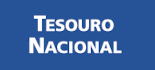
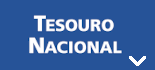
site

Changed region(s): [[0.8258, 0.8, 0.9548, 0.9429]]

diff --git a/projetos/assescon/index.html b/projetos/assescon/index.html
@@ -57,7 +57,13 @@
                     <a href="https://sti.tesouro.gov.br/cauc/index.jsf" title="CAUC" target="_blank"><img src="imagens/cauc.png" alt="CAUC"></a>
                     <a href="https://siconfi.tesouro.gov.br/siconfi/index.jsf" title="SICONFI" target="_blank"><img src="imagens/siconfi.jpeg" alt="SICONFI"></a>
                 </div>
-            </div><br>
+            </div>
+            <div class="dropbtn">
+                <a href="https://www42.bb.com.br/portalbb/daf/beneficiario,802,4647,4652,0,1.bbx" title="DAF BB" target="_blank"><img src="imagens/bb.png" alt="DAF BB"></a>
+                <a href="http://cas.aossoftware.com.br/apps/index.php/login" title="AOS Login" target="_blank"><img src="imagens/aos.png" alt="AOS Login"></a>
+                <a href="http://app.diarioficialdosmunicipios.org:8086/controlepublicacao/" title="DOM Publicação" target="_blank"><img src="imagens/dom.jpeg" alt="DOM Publicação"></a>
+                <a href="https://solucoes.receita.fazenda.gov.br/Servicos/cnpjreva/cnpjreva_solicitacao.asp" title="CNPJ" target="_blank"><img src="imagens/cnpj.png" alt="CNPJ"></a>
+            </div>
             <div class="dropdown">
                 <a class="dropbtn" href="https://www.tse.jus.br/" title="TSE" target="_blank"><img src="imagens/tse.png" alt="TSE"></a>
                 <div class="dropdown-content">
@@ -66,32 +72,57 @@
                 </div>
             </div>
             <div class="dropbtn">
-                <a href="https://www.fnde.gov.br/sigpc/login.seam" title="SIGPC" target="_blank"><img src="imagens/sigpc.jpeg" alt="SIGPC"></a><br>
-                <a href="http://cas.aossoftware.com.br/apps/index.php/login" title="AOS Login" target="_blank"><img src="imagens/aos.png" alt="AOS Login"></a>
-                <a href="http://app.diarioficialdosmunicipios.org:8086/controlepublicacao/" title="DOM Publicação" target="_blank"><img src="imagens/dom.jpeg" alt="DOM Publicação"></a><br>
-                <a href="https://www42.bb.com.br/portalbb/daf/beneficiario,802,4647,4652,0,1.bbx" title="DAF BB" target="_blank"><img src="imagens/bb.png" alt="DAF BB"></a>
-                <a href="https://solucoes.receita.fazenda.gov.br/Servicos/cnpjreva/cnpjreva_solicitacao.asp" title="CNPJ" target="_blank"><img src="imagens/cnpj.png" alt="CNPJ"></a><br>
+                <a href="https://www.fnde.gov.br/sigpc/login.seam" title="SIGPC" target="_blank"><img src="imagens/sigpc.jpeg" alt="SIGPC"></a>
                 <a href="https://www.gov.br/receitafederal/pt-br" title="Receita Federal" target="_blank"><img src="imagens/rf.png" alt="Receita Federal"></a>
-                <a href="https://cav.receita.fazenda.gov.br/autenticacao/login" title="E-cac" target="_blank"><img src="imagens/ecac.jpg" alt="E-cac"></a><br>
+                <a href="https://cav.receita.fazenda.gov.br/autenticacao/login" title="E-cac" target="_blank"><img src="imagens/ecac.jpg" alt="E-cac"></a>
                 <a href="http://www8.receita.fazenda.gov.br/simplesnacional/aplicacoes.aspx?id=21" title="Simples Nacional" target="_blank"><img src="imagens/simples.jpg" alt="Simples Nacional"></a>
-                <a href="https://www.issdigitalthe.com.br/nfsa/" title="NFSe-A" target="_blank"><img src="imagens/nfse-a.jpg" alt="NFSe-A"></a><br>
+                <a href="https://www.issdigitalthe.com.br/nfsa/" title="NFSe-A" target="_blank"><img src="imagens/nfse-a.jpg" alt="NFSe-A"></a>
                 <a href="https://cfc.org.br/" title="Conselho Federal de Contabilidade" target="_blank"><img src="imagens/cfc.gif" alt="Conselho Federal de Contabilidade"></a>
-                <a href="https://crcpi.com.br/new/" title="Conselho Regional de Contabilidade do Piauí" target="_blank"><img src="imagens/crc.png" alt="Conselho Regional de Contabilidade do Piauí"></a><br>
-                <a href="https://conselhos.mobieduca.me/#/" title="Mobieduca" target="_blank"><img src="imagens/mobieduca.png" alt="Mobieduca"></a><br>
-                <a href="https://www.nfe.fazenda.gov.br/portal/consultaRecaptcha.aspx?tipoConsulta=resumo&tipoConteudo=7PhJ+gAVw2g=" title="Consulta NF" target="_blank"><img src="imagens/nfe.png" alt="Consulta NF"></a><br>
-                <a href="https://portaldoservidor.pi.gov.br/sso/login?service=https%3A%2F%2Fportaldoservidor.pi.gov.br%2Fportal%2Flogin%2Fcas" title="Portal Servidor PI" target="_blank"><img src="imagens/servidor.png" alt="Portal Servidor PI"></a><br>
-                <a href="https://sei.pi.gov.br/sei/modulos/pesquisa/md_pesq_processo_pesquisar.php?acao_externa=protocolo_pesquisar&acao_origem_externa=protocolo_pesquisar&id_orgao_acesso_externo=0" title="Portal SEI" target="_blank"><img src="imagens/sei.jpg" alt="Portal SEI"></a>
-                <a href="hhttps://tools.pdf24.org/pt/" title="PDF 24" target="_blank"><img src="imagens/pdf.png" alt="PDF 24"></a>
+                <a href="https://crcpi.com.br/new/" title="Conselho Regional de Contabilidade do Piauí" target="_blank"><img src="imagens/crc.png" alt="Conselho Regional de Contabilidade do Piauí"></a>
+                <a href="https://www.nfe.fazenda.gov.br/portal/consultaRecaptcha.aspx?tipoConsulta=resumo&tipoConteudo=7PhJ+gAVw2g=" title="Consulta NF" target="_blank"><img src="imagens/nfe.png" alt="Consulta NF"></a>
+            </div>
+            <div class="dropdown">
+                <a class="dropbtn" href="https://www.seduc.pi.gov.br/" title="SEDUC-PI" target="_blank"><img src="imagens/seduc.png" alt="SEDUC-PI"></a>
+                <div class="dropdown-content">
+                    <a href="https://conselhos.mobieduca.me/#/" title="Mobieduca" target="_blank"><img src="imagens/mobieduca.png" alt="Mobieduca"></a>
+                    <a href="https://portaldoservidor.pi.gov.br/sso/login?service=https%3A%2F%2Fportaldoservidor.pi.gov.br%2Fportal%2Flogin%2Fcas" title="Portal Servidor PI" target="_blank"><img src="imagens/servidor.png" alt="Portal Servidor PI"></a>
+                    <a href="https://sei.pi.gov.br/sei/modulos/pesquisa/md_pesq_processo_pesquisar.php?acao_externa=protocolo_pesquisar&acao_origem_externa=protocolo_pesquisar&id_orgao_acesso_externo=0" title="Portal SEI" target="_blank"><img src="imagens/sei.jpg" alt="Portal SEI"></a>
+                    <a href="hhttps://tools.pdf24.org/pt/" title="PDF 24" target="_blank"><img src="imagens/pdf.png" alt="PDF 24"></a>
+                </div>
             </div>
         </div>
         <section>
             <p> A ASSESCON – ASSESSORIA & CONSULTORIA CONTABIL LTDA é uma empresa especializada em serviços contábeis de área de Contabilidade Publica, Empresarial, Terceiro Setor e Partidária/Eleitoral, que vem atuando neste ramo desde 2009, tendo prestado serviços relevantes nestas áreas em vários Estados do Piauí e Maranhão.</p>
             <p>Navegue pelo nosso site e saiba o que podemos lhe oferecer.</p>
-            <p>"O sucesso é a soma de pequenos esforços - repetidos dia sim, e no outro dia também."</p>
-            <img src="imagens/fachada.jpg" alt="Fachada" style="width: 100%;">
+            <p>"O sucesso é a soma de pequenos esforços - repetidos dia sim, e no outro dia também."</p>            
+            <div class="slideshow-container">
+                <div class="mySlides fade">
+                  <div class="numbertext">1 / 3</div>
+                  <img src="imagens/fachada.jpg" alt="Fachada" style="width: 100%;">
+                </div>                
+                <div class="mySlides fade">
+                  <div class="numbertext">2 / 3</div>
+                  <img src="imagens/fachada.jpg" alt="Fachada" style="width: 100%;">
+                </div>                
+                <div class="mySlides fade">
+                  <div class="numbertext">3 / 3</div>
+                  <img src="imagens/fachada.jpg" alt="Fachada" style="width: 100%;">
+                </div>                
+                <a class="prev" onclick="plusSlides(-1)">❮</a>
+                <a class="next" onclick="plusSlides(1)">❯</a>                
+            </div>                
+            <div style="text-align:center">
+                <span class="dot" onclick="currentSlide(1)"></span> 
+                <span class="dot" onclick="currentSlide(2)"></span> 
+                <span class="dot" onclick="currentSlide(3)"></span> 
+            </div>
             <iframe src="https://www.google.com/maps/embed?pb=!1m18!1m12!1m3!1d3973.8904505740015!2d-42.812457549191926!3d-5.121350553257049!2m3!1f0!2f0!3f0!3m2!1i1024!2i768!4f13.1!3m3!1m2!1s0x78e36e2202b21e5%3A0xde01e6817509f9b4!2sASSESCON%20(Acess%C3%B3ria%20%26%20Consultoria%20Cont%C3%A1bil%20LTDA)!5e0!3m2!1spt-PT!2sbr!4v1672075108306!5m2!1spt-PT!2sbr" width="100%" height="300" style="border:0;" allowfullscreen="" loading="lazy" referrerpolicy="no-referrer-when-downgrade"></iframe>
+            <a href="https://dolarhoje.com/" class="dolar-hoje-button" data-currency="dolar" target="_blank" title="Cotação do Dólar Hoje">Dólar Hoje</a><script async src="//dolarhoje-widgets.s3.amazonaws.com/button.js"></script>
+            <a href="https://dolarhoje.com/euro-hoje/" class="dolar-hoje-button" data-currency="euro" target="_blank" title="Cotação do Euro Hoje">Euro Hoje</a><script async src="//dolarhoje-widgets.s3.amazonaws.com/button.js" charset="utf-8"></script>
+            <a href="https://dolarhoje.com/ouro-hoje/" class="dolar-hoje-button" data-currency="ouro" target="_blank" title="Cotação do Ouro Hoje">Ouro Hoje</a><script async src="//dolarhoje-widgets.s3.amazonaws.com/button.js" charset="utf-8"></script>
+            <a href="https://dolarhoje.com/bitcoin-hoje/" class="dolar-hoje-button" data-currency="bitcoin" target="_blank" title="Cotação do Bitcoin Hoje">Bitcoin Hoje</a><script async src="//dolarhoje-widgets.s3.amazonaws.com/button.js" charset="utf-8"></script>
         </section>
-    </main>
+    </main>    
     <hr>
     <footer>
         <p>Todos os direitos reservados | 2023 | ASSESCON - Assessoria & Consultoria Contábil</p>

diff --git a/projetos/assescon/style.css b/projetos/assescon/style.css
@@ -22,6 +22,7 @@ nav {
     padding: 5px;
     text-decoration: none;
     text-align: center;
+    border-radius: 0px 0px 5px 5px;
 }
 nav a, nav .dropbtn {
     padding: 4px 15px;
@@ -69,36 +70,54 @@ nav > .dropdown:hover > .dropdown-content {display: block;}
     width: 200px;
     text-align: center;
     display: inline-block;
+    transition-duration: 0.4s;
 }
 .sidenav a {
     text-decoration: none;
     font-weight: bolder;
     color: white;
+    transition-duration: 0.4s;
+}
+.sidenav .dropbtn {
+    -webkit-filter: grayscale(100%);
+    opacity: 0.7;
+    transition-duration: 0.4s;
 }
 .sidenav .dropdown-content {
+    opacity: 0.5;
     display: none;
     flex-flow: row wrap;
     margin: 0;
     padding: 0;
     box-shadow: 8px 8px 16px 0px rgba(0, 0, 0, 0.144);
+    transition-duration: 0.4s;
 }
 .sidenav .dropdown-content a {
     display: inline;
     margin: auto;
     padding: 0;
+    transition-duration: 0.4s;
 }
 .sidenav .dropdown-content img {
     display: inline;
     margin: 0;
     padding: 0;
+    transition-duration: 0.4s;
 }
-.sidenav .dropdown:hover .dropdown-content {display: flex;}
+.sidenav .dropdown:hover .dropdown-content {transition-duration: 0.6s;display: flex;}
+.sidenav .dropbtn:hover, .dropdown-content:hover {transition-duration: 0.4s; -webkit-filter: grayscale(0%); opacity: 1;}
 
   /* Main content */
 section {
     font-size: 20px; /* Increased text to enable scrolling */
     padding: 0px 10px;
-  }
+    margin-bottom: 5px;
+}
+
+img, iframe {
+    border-radius: 5px;
+    box-shadow: 2px 2px 2px rgba(0, 0, 0, 0.24);
+}
     
   /* Some media queries for responsiveness */
   @media screen and (max-height: 450px) {
@@ -125,6 +144,93 @@ ul {
 }
 .sublinhado {
     text-decoration: underline;
+}
+.mySlides {display: none}
+
+/* Slideshow container */
+.slideshow-container {
+  max-width: 1000px;
+  position: relative;
+  margin: auto;
+}
+
+/* Next & previous buttons */
+.prev, .next {
+  cursor: pointer;
+  position: absolute;
+  top: 50%;
+  width: auto;
+  padding: 16px;
+  margin-top: -22px;
+  color: white;
+  font-weight: bold;
+  font-size: 18px;
+  transition: 0.6s ease;
+  border-radius: 0 3px 3px 0;
+  user-select: none;
+}
+
+/* Position the "next button" to the right */
+.next {
+  right: 0;
+  border-radius: 3px 0 0 3px;
+}
+
+/* On hover, add a black background color with a little bit see-through */
+.prev:hover, .next:hover {
+  background-color: rgba(0,0,0,0.8);
+}
+
+/* Caption text */
+.text {
+  color: #f2f2f2;
+  font-size: 15px;
+  padding: 8px 12px;
+  position: absolute;
+  bottom: 8px;
+  width: 100%;
+  text-align: center;
+}
+
+/* Number text (1/3 etc) */
+.numbertext {
+  color: #f2f2f2;
+  font-size: 12px;
+  padding: 8px 12px;
+  position: absolute;
+  top: 0;
+}
+
+/* The dots/bullets/indicators */
+.dot {
+  cursor: pointer;
+  height: 15px;
+  width: 15px;
+  margin: 0 2px;
+  background-color: #bbb;
+  border-radius: 50%;
+  display: inline-block;
+  transition: background-color 0.6s ease;
+}
+
+.active, .dot:hover {
+  background-color: #717171;
+}
+
+/* Fading animation */
+.fade {
+  animation-name: fade;
+  animation-duration: 1.5s;
+}
+
+@keyframes fade {
+  from {opacity: .4} 
+  to {opacity: 1}
+}
+
+/* On smaller screens, decrease text size */
+@media only screen and (max-width: 300px) {
+  .prev, .next,.text {font-size: 11px}
 }
 footer {
     margin: 5px;

diff --git a/projetos/assescon/java.js b/projetos/assescon/java.js
@@ -13,3 +13,29 @@ for (i = 0; i < dropdown.length; i++) {
     }
   });
 }
+let slideIndex = 1;
+showSlides(slideIndex);
+
+function plusSlides(n) {
+  showSlides(slideIndex += n);
+}
+
+function currentSlide(n) {
+  showSlides(slideIndex = n);
+}
+
+function showSlides(n) {
+  let i;
+  let slides = document.getElementsByClassName("mySlides");
+  let dots = document.getElementsByClassName("dot");
+  if (n > slides.length) {slideIndex = 1}    
+  if (n < 1) {slideIndex = slides.length}
+  for (i = 0; i < slides.length; i++) {
+    slides[i].style.display = "none";  
+  }
+  for (i = 0; i < dots.length; i++) {
+    dots[i].className = dots[i].className.replace(" active", "");
+  }
+  slides[slideIndex-1].style.display = "block";  
+  dots[slideIndex-1].className += " active";
+}
